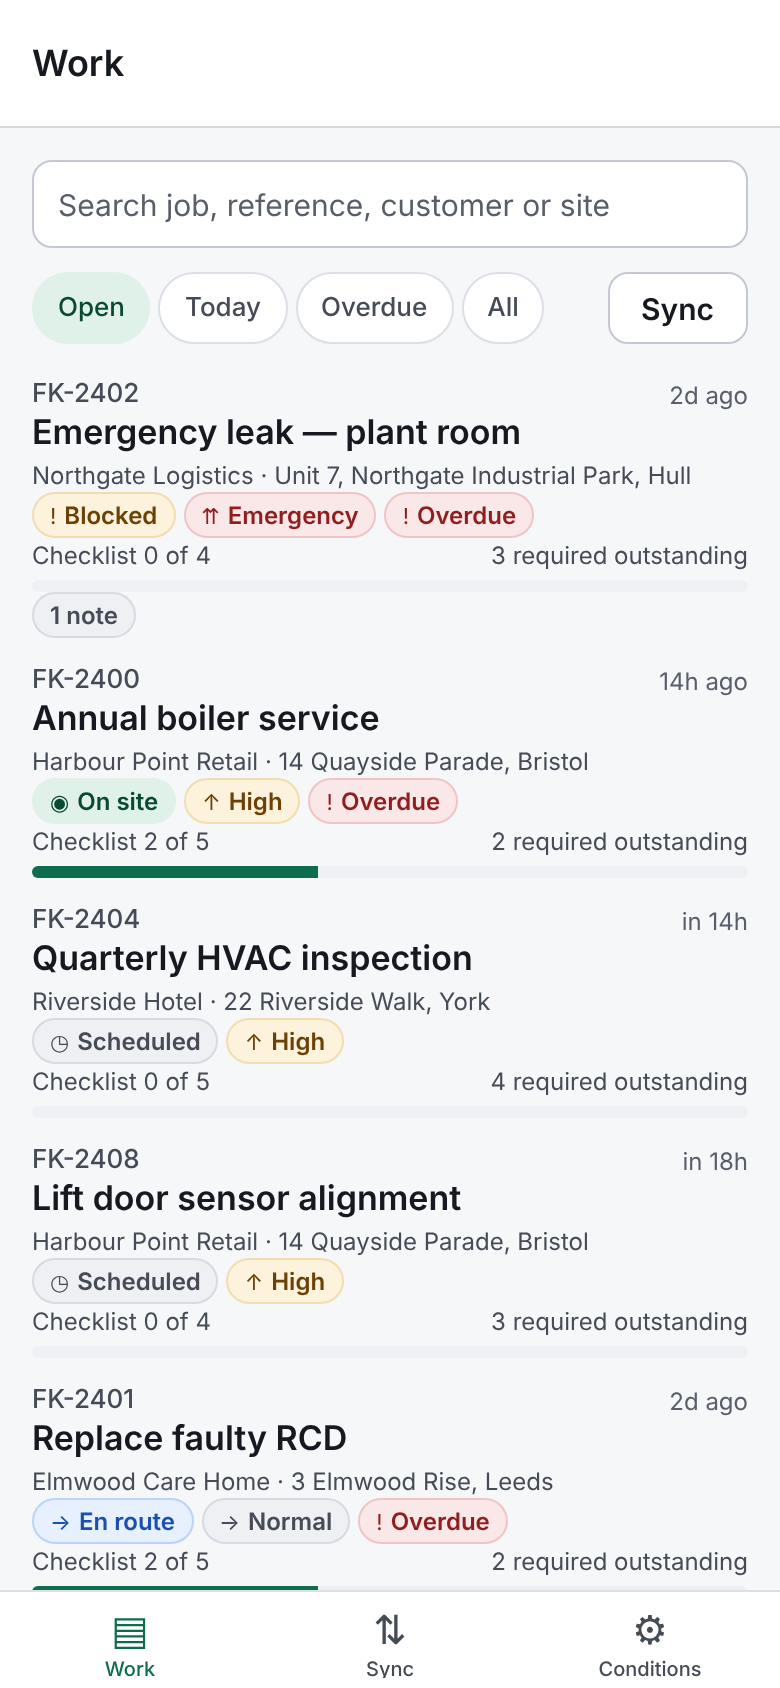
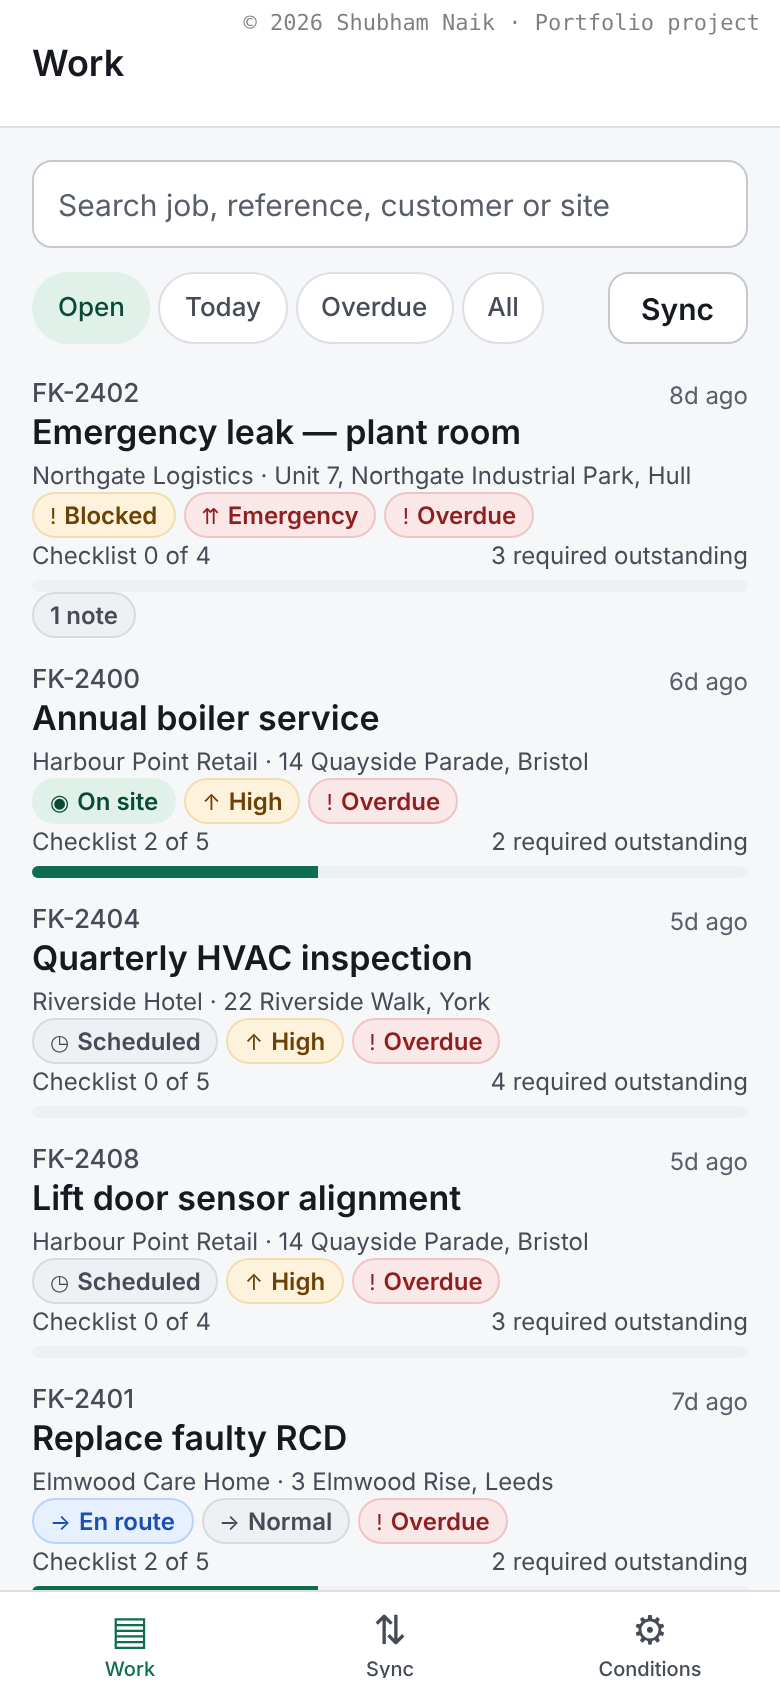
fix(web): correct dark mode after hydration, theme the navigator, move mark to top
Claude-Session: https://claude.ai/code/session_01NbsGsAJSuCdT254SeM23Ep

diff --git a/app/_layout.tsx b/app/_layout.tsx
@@ -1,15 +1,16 @@
-import { Stack } from "expo-router";
+import { DarkTheme, DefaultTheme, Stack, ThemeProvider } from "expo-router";
 import { StatusBar } from "expo-status-bar";
 import { useEffect } from "react";
-import { Platform, useColorScheme } from "react-native";
+import { Platform } from "react-native";
 import { SafeAreaProvider } from "react-native-safe-area-context";
 
 import { AppProvider } from "@/state/app-context";
 import { darkTheme, lightTheme } from "@/theme";
+import { useAppColorScheme } from "@/theme/use-app-color-scheme";
 
 const MARK_ID = "authorship-mark";
 const MARK_CSS =
-  'body::after{content:"\\00a9  2026 Shubham Naik \\00b7  Portfolio project";position:fixed;right:10px;bottom:6px;z-index:50;font:500 11px/1 ui-monospace,Menlo,monospace;opacity:.5;pointer-events:none;user-select:none}';
+  'body::after{content:"\\00a9  2026 Shubham Naik \\00b7  Portfolio project";position:fixed;right:10px;top:6px;z-index:50;font:500 11px/1 ui-monospace,Menlo,monospace;opacity:.5;pointer-events:none;user-select:none}';
 
 /** Web build only: a small, non-interactive authorship mark in the corner. */
 function useAuthorshipMark() {
@@ -25,28 +26,47 @@ function useAuthorshipMark() {
 
 export default function RootLayout() {
   useAuthorshipMark();
-  const scheme = useColorScheme();
+  const scheme = useAppColorScheme();
   const theme = scheme === "dark" ? darkTheme : lightTheme;
 
+  // Give the navigation container the same palette as the screens. Without
+  // this its default light theme paints the header, tab bar and scene
+  // background, which leaves light text on a light page in dark mode (seen on
+  // the web build).
+  const base = theme.dark ? DarkTheme : DefaultTheme;
+  const navTheme = {
+    ...base,
+    colors: {
+      ...base.colors,
+      primary: theme.colors.accent,
+      background: theme.colors.background,
+      card: theme.colors.surface,
+      text: theme.colors.text,
+      border: theme.colors.border,
+    },
+  };
+
   return (
-    <SafeAreaProvider>
-      <AppProvider>
-        <StatusBar style={theme.dark ? "light" : "dark"} />
-        <Stack
-          screenOptions={{
-            headerStyle: { backgroundColor: theme.colors.surface },
-            headerTintColor: theme.colors.text,
-            headerTitleStyle: { fontWeight: "600" },
-            contentStyle: { backgroundColor: theme.colors.background },
-          }}
-        >
-          <Stack.Screen name="(tabs)" options={{ headerShown: false }} />
-          <Stack.Screen
-            name="job/[id]"
-            options={{ title: "Job", headerBackTitle: "Work" }}
-          />
-        </Stack>
-      </AppProvider>
-    </SafeAreaProvider>
+    <ThemeProvider value={navTheme}>
+      <SafeAreaProvider>
+        <AppProvider>
+          <StatusBar style={theme.dark ? "light" : "dark"} />
+          <Stack
+            screenOptions={{
+              headerStyle: { backgroundColor: theme.colors.surface },
+              headerTintColor: theme.colors.text,
+              headerTitleStyle: { fontWeight: "600" },
+              contentStyle: { backgroundColor: theme.colors.background },
+            }}
+          >
+            <Stack.Screen name="(tabs)" options={{ headerShown: false }} />
+            <Stack.Screen
+              name="job/[id]"
+              options={{ title: "Job", headerBackTitle: "Work" }}
+            />
+          </Stack>
+        </AppProvider>
+      </SafeAreaProvider>
+    </ThemeProvider>
   );
 }

diff --git a/src/theme/use-app-color-scheme.ts b/src/theme/use-app-color-scheme.ts
@@ -1,0 +1,24 @@
+import { useSyncExternalStore } from "react";
+import { useColorScheme } from "react-native";
+
+const subscribe = () => () => {};
+
+/**
+ * The colour scheme to render with.
+ *
+ * The static web export is pre-rendered without knowing the viewer's scheme,
+ * so its HTML is light. React does not repair mismatched style attributes
+ * while hydrating, which left a dark-mode viewer with a light header and page
+ * behind light text. During hydration this hook therefore reports "light" to
+ * match the HTML, then re-renders with the real scheme as an ordinary update.
+ * On native there is no hydration and it returns the real scheme at once.
+ */
+export function useAppColorScheme(): "light" | "dark" {
+  const scheme = useColorScheme();
+  const hydrated = useSyncExternalStore(
+    subscribe,
+    () => true,
+    () => false,
+  );
+  return hydrated && scheme === "dark" ? "dark" : "light";
+}

diff --git a/src/theme/index.ts b/src/theme/index.ts
@@ -1,10 +1,9 @@
-import { useColorScheme } from "react-native";
-
+import { useAppColorScheme } from "@/theme/use-app-color-scheme";
 import { darkTheme, lightTheme, type Theme } from "@/theme/tokens";
 
 /** The palette for the device's current appearance setting. */
 export function useTheme(): Theme {
-  return useColorScheme() === "dark" ? darkTheme : lightTheme;
+  return useAppColorScheme() === "dark" ? darkTheme : lightTheme;
 }
 
 export * from "@/theme/tokens";
